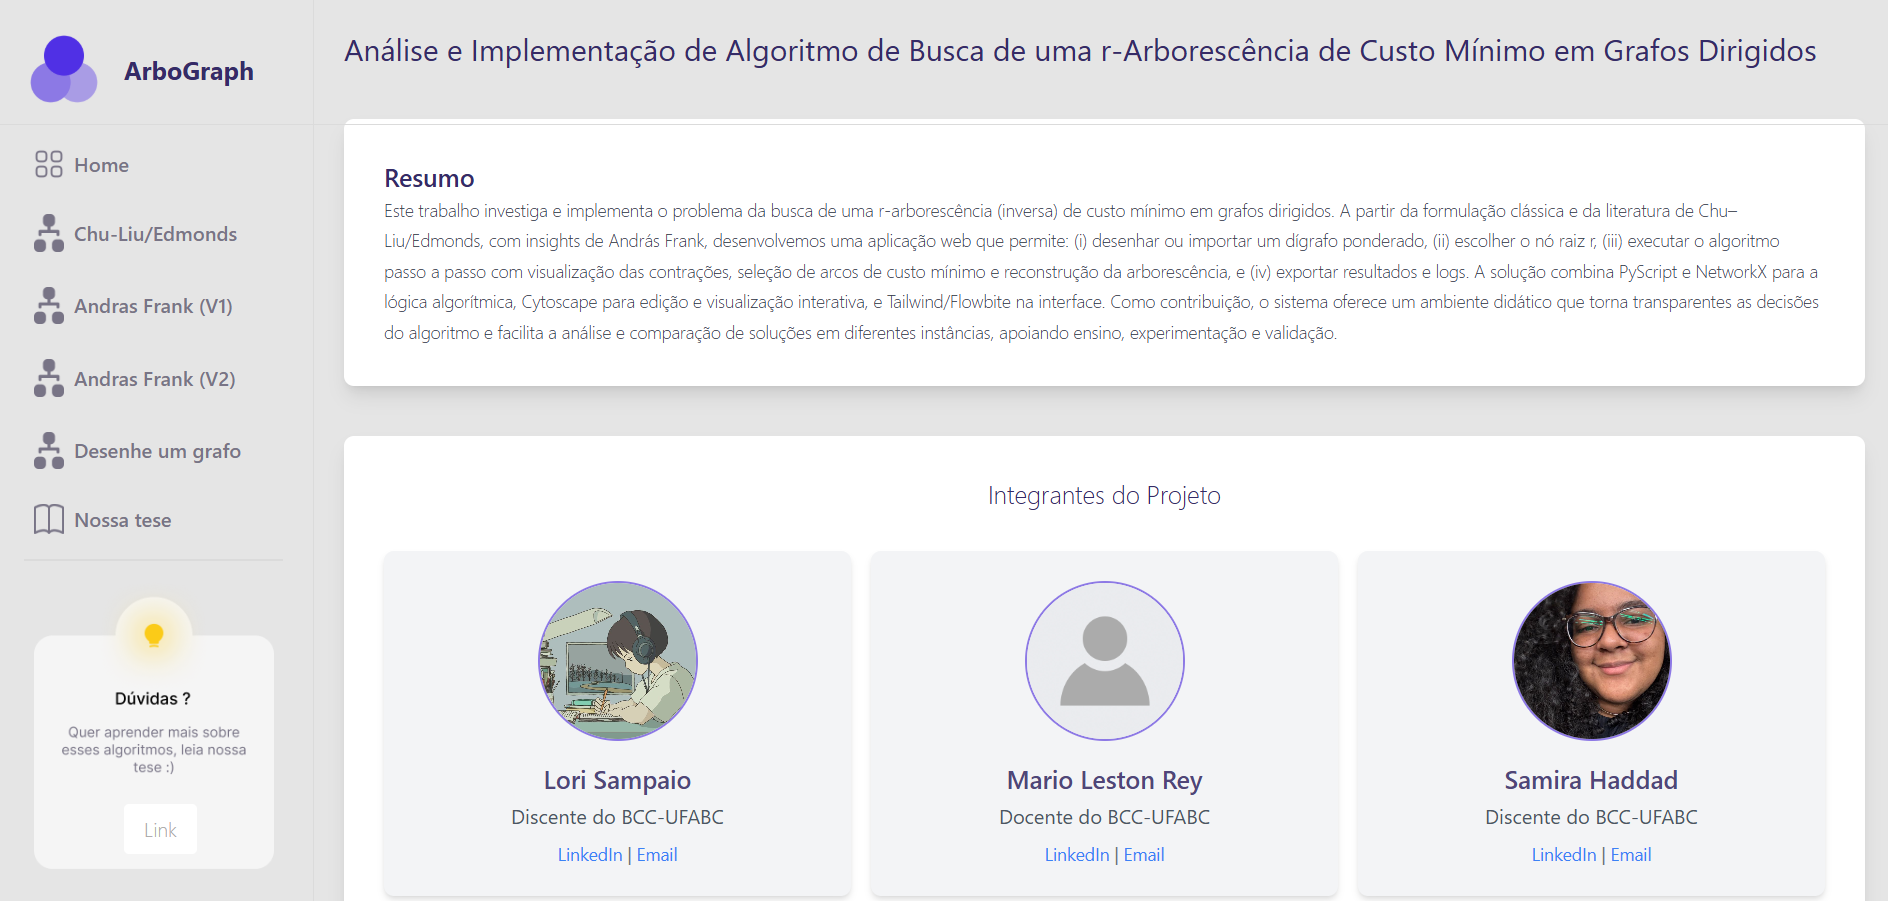
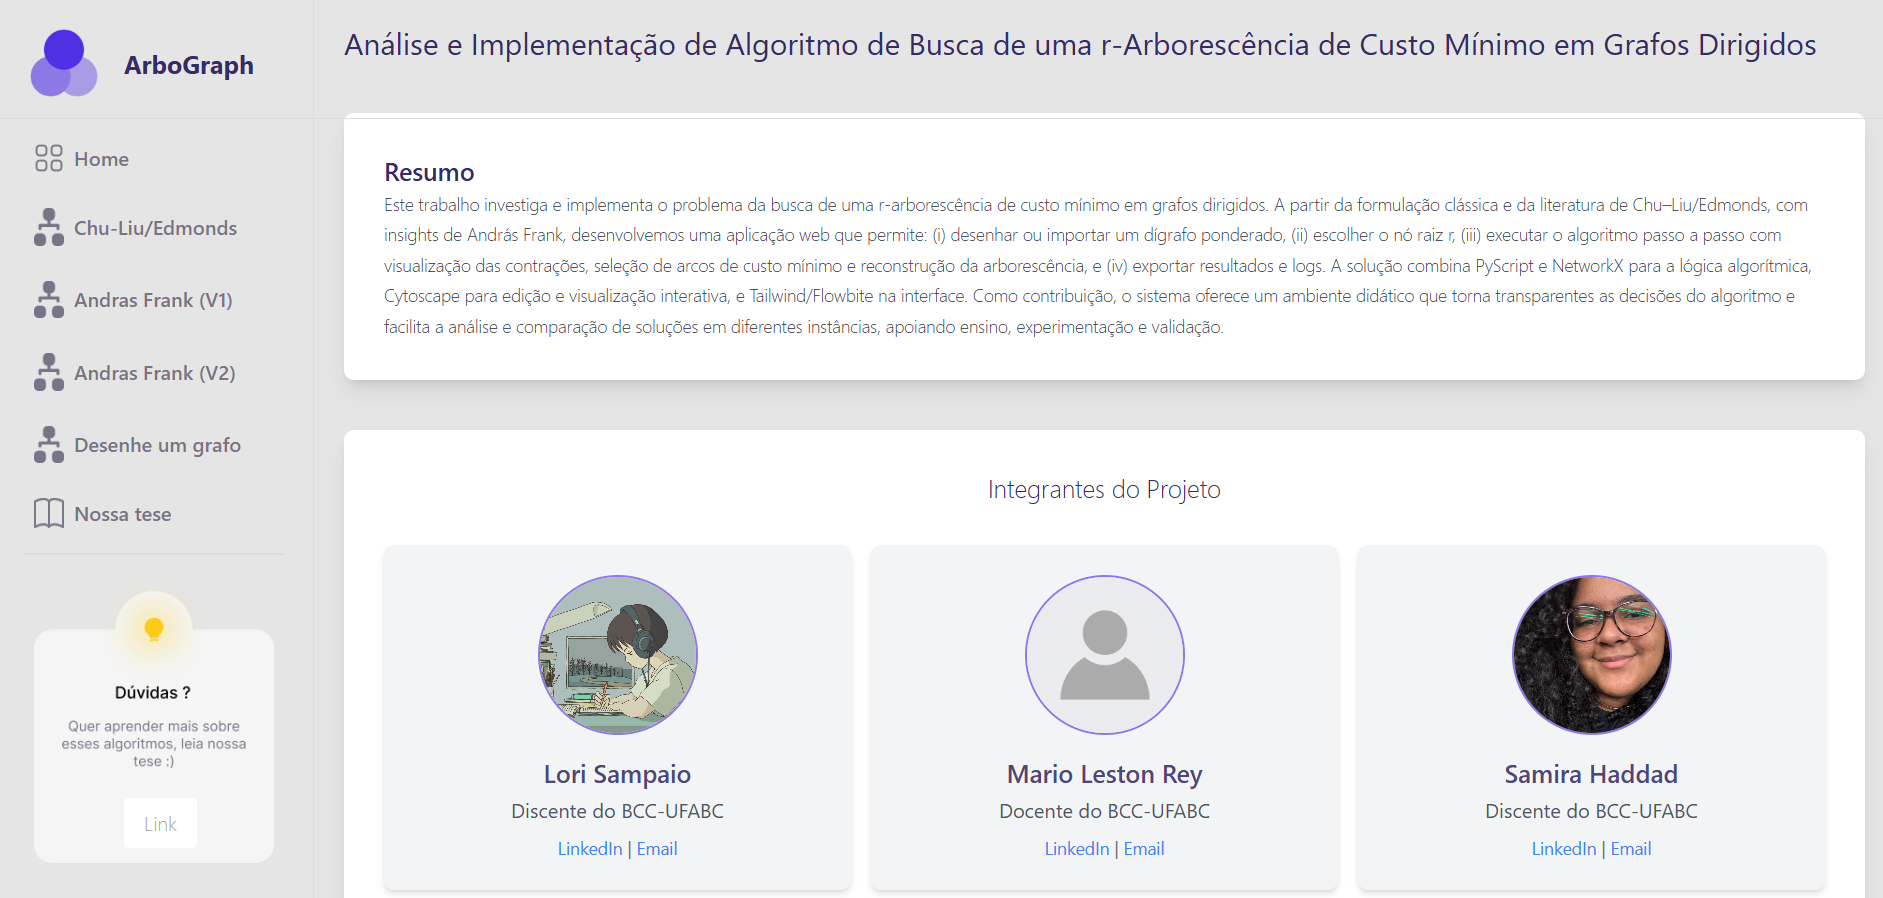
alterando título no HTML

diff --git a/pages/home.html b/pages/home.html
@@ -28,13 +28,13 @@
     <!-- Análise e Implementação de Algoritmo de Busca de uma r-Arborescência Inversa de Custo Mínimo em Grafos Dirigidos -->
     <span class="flex items-center gap-4 mb-10 text-2xl text-[#352B67]">Análise e Implementação de Algoritmo de Busca de
       uma r-Arborescência
-      Inversa de Custo Mínimo em Grafos Dirigidos</span>
+      de Custo Mínimo em Grafos Dirigidos</span>
     <section class="mb-10 bg-white p-8 rounded-lg shadow-lg" id="resumo">
       <scan class="text-3xl font-semibold text-center mb-8 text-[#352B67] text-xl">Resumo</scan>
       <div class="prose max-w-none text-gray-700">
         <scan class="text-lg leading-relaxed mb-4 text-sm font-light">
           Este trabalho investiga e implementa o problema da busca de uma
-          r‑arborescência (inversa) de custo mínimo em grafos dirigidos. A
+          r‑arborescência de custo mínimo em grafos dirigidos. A
           partir da formulação clássica e da literatura de Chu–Liu/Edmonds,
           com insights de András Frank, desenvolvemos uma aplicação web que
           permite: (i) desenhar ou importar um dígrafo ponderado, (ii)
